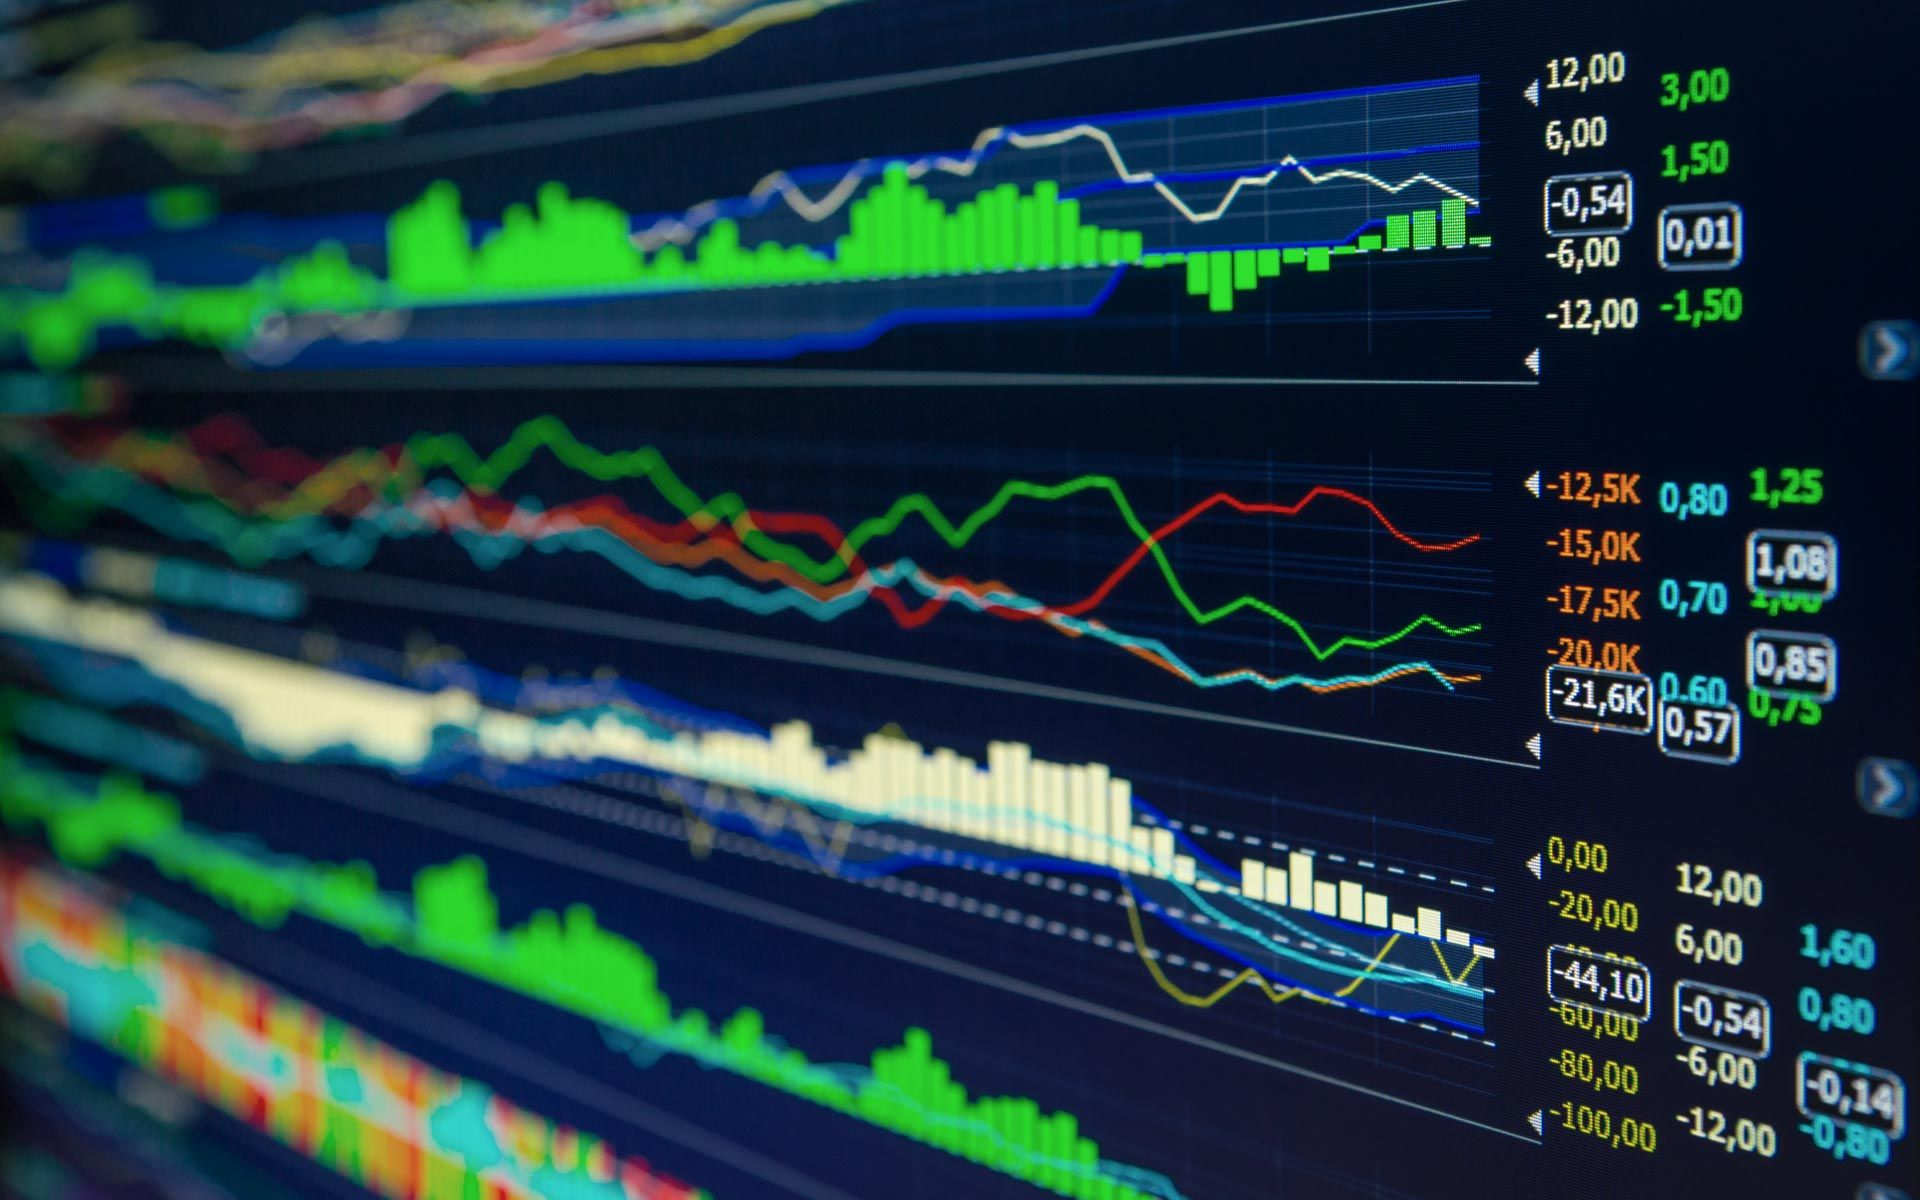
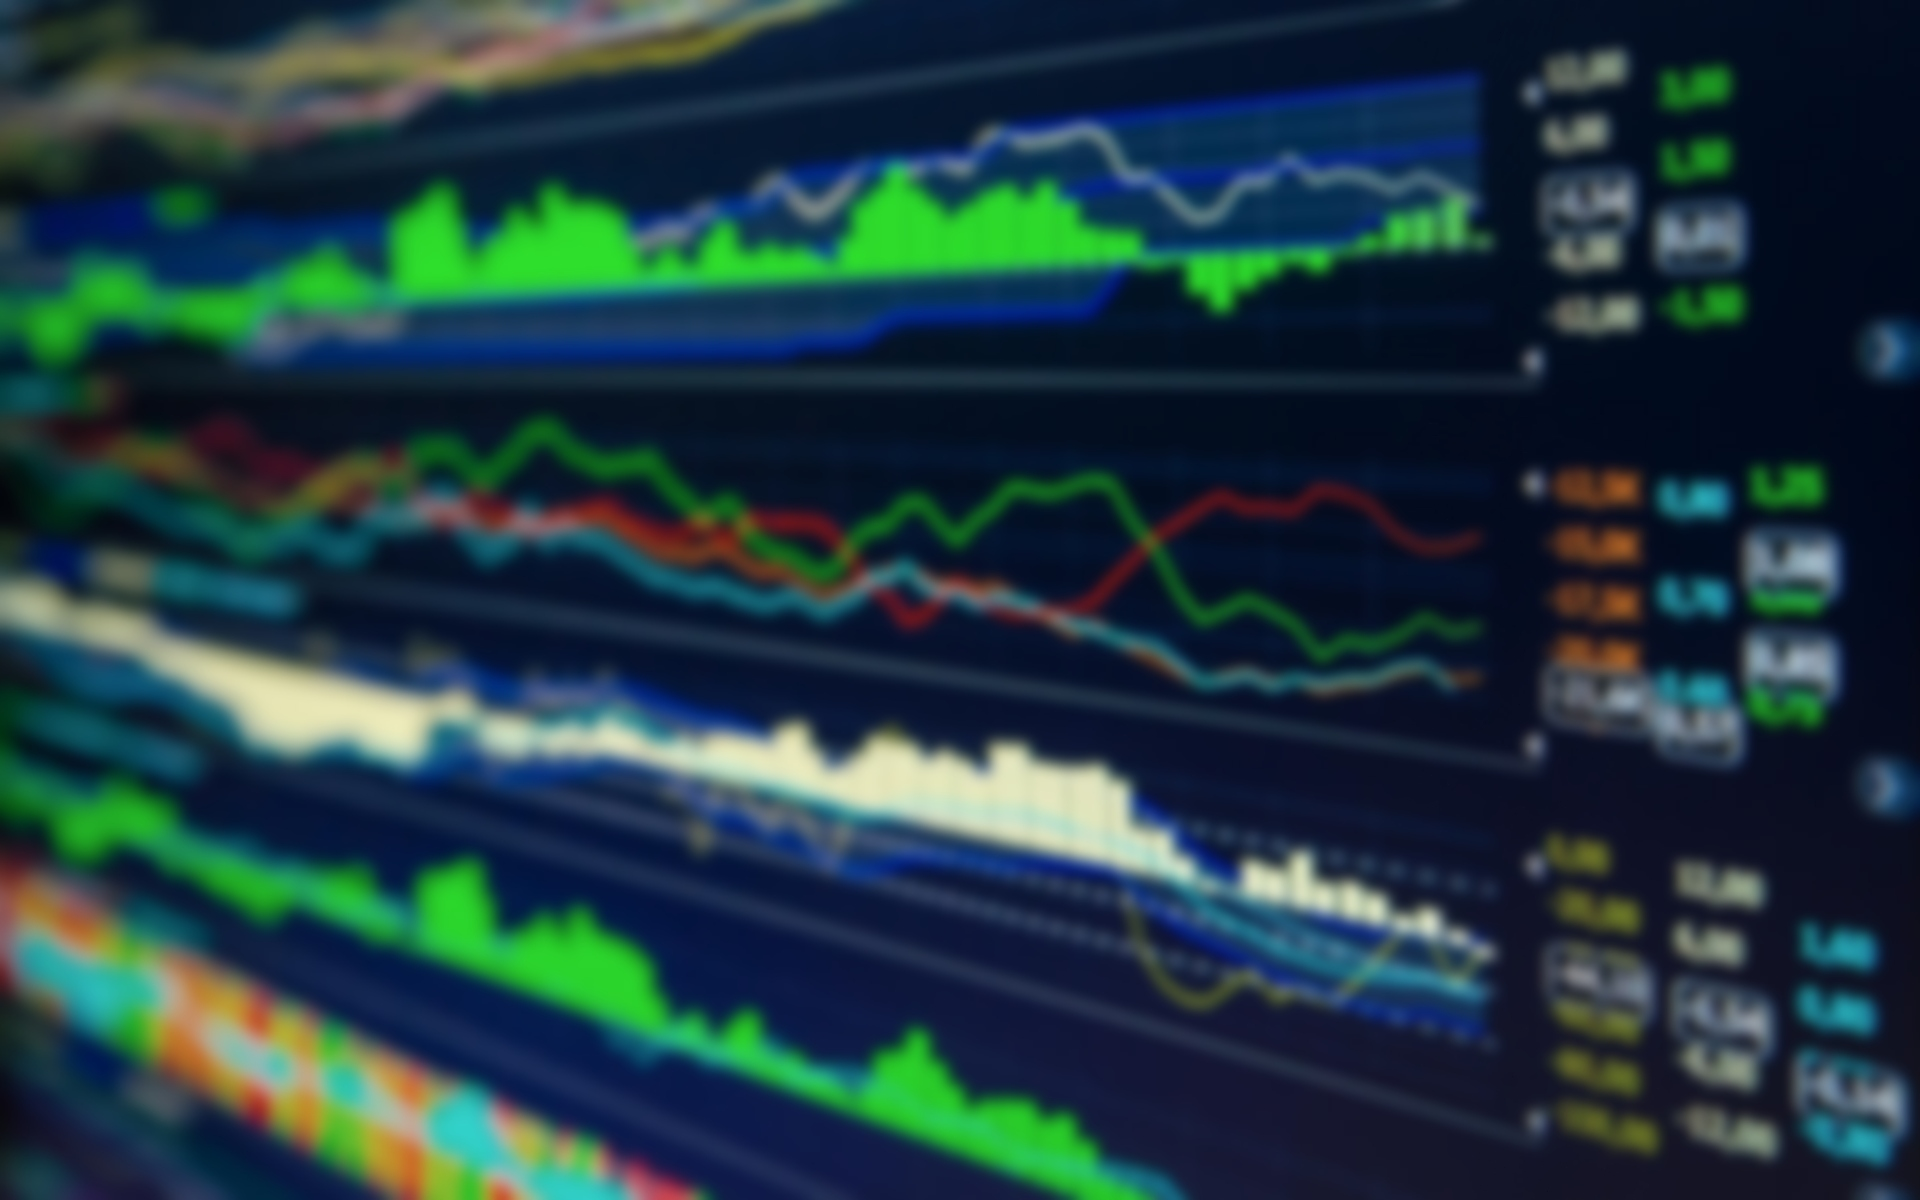
gallery blur

diff --git a/src/lib/Gallery.svelte b/src/lib/Gallery.svelte
@@ -3,37 +3,37 @@
 	import Header from '$lib/Header.svelte';
 	const gallery = [
 		{
-			photo: '/gallery/keyboard.jpg',
+			photo: '/blured/keyboard.jpg',
 			title: 'Marcello Kabora',
 			slogan: 'Frontend Engineer',
 			link: '/curriculum'
 		},
 		{
-			photo: '/gallery/chartmap.jpg',
+			photo: '/blured/chartmap.jpg',
 			title: 'Chartmap',
 			slogan: 'Analiticts',
 			link: '/project/chartmap'
 		},
 		{
-			photo: '/gallery/backfuture.png',
+			photo: '/blured/backfuture.jpg',
 			title: 'Yawiki',
 			slogan: 'Timeline',
 			link: '/project/yawiki'
 		},
 		{
-			photo: '/gallery/firenze.png',
+			photo: '/blured/firenze.jpg',
 			title: 'Firenze',
 			slogan: 'Logo',
 			link: '/project/firenze'
 		},
 		{
-			photo: '/gallery/mineko.png',
+			photo: '/blured/mineko.jpg',
 			title: 'Mineko',
 			slogan: 'Website',
 			link: '/project/mineko-website'
 		},
 		{
-			photo: '/gallery/beathecue.jpg',
+			photo: '/blured/beathecue.jpg',
 			title: 'Beathecue',
 			slogan: 'Skip The Cue',
 			link: '/project/beathecue-website'
@@ -46,7 +46,7 @@
 		options={{
 			rewind: true,
 			height: 600,
-			autoplay: true,
+			autoplay: false,
 			arrows: false
 		}}
 	>
@@ -83,8 +83,8 @@
 		position: absolute;
 		object-fit: cover;
 		width: 100%;
-		height: 190%;
-		filter: saturate(1) brightness(0.8) blur(8px);
+		/* height: 190%; */
+		filter: saturate(1) brightness(0.8);
 		z-index: -1;
 	}
 	.dflex {

diff --git a/src/routes/project/portfolio/+page.svelte b/src/routes/project/portfolio/+page.svelte
@@ -3,12 +3,12 @@
 	import ProjectUi from '$lib/Project.svelte';
 	const data: Project = {
 		banner: {
-			cover: '/gallery/keyboard.jpg',
+			cover: '/project/portfolio/_cover.jpg',
 			title: 'Marcello Kabora',
 			slogan: 'Portfolio'
 		},
 		date: 'Aug 2022',
-		gallery: ['/project/portfolio/poertfolio01.png'],
+		gallery: ['/project/portfolio/portfolio.png'],
 		lang: [language.svelte],
 		more: [
 			{ name: 'Game App', link: 'gameapp' },

diff --git a/src/lib/Projects.svelte b/src/lib/Projects.svelte
@@ -3,7 +3,7 @@
 
 	const items: ProjectThumb[] = [
 		{
-			photo: '/gallery/keyboard.jpg',
+			photo: '/gallery/keyboard_blur.jpg',
 			name: 'Portfolio',
 			link: '/project/portfolio',
 			height: iHeight(),
